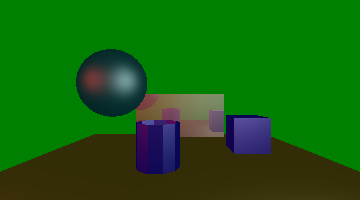
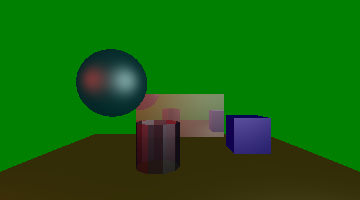
Added hi-res render.

Changed region(s): [[0.3667, 0.6, 0.5194, 0.87]]

diff --git a/tracer/tracer.py b/tracer/tracer.py
@@ -66,8 +66,8 @@ objects.append(readobj('plane.obj', 'plane', vec(128, 128, 0)))
 #  object.n: The normal for each triangle.
 
 # The resolution for this render
-image_width = 360
-image_height = 200
+image_width = 1440
+image_height = 900
 # The size of the image plane (in the 3D space)
 window_width = (image_width*1.0)/image_height
 window_height = 1
@@ -76,7 +76,7 @@ ambientlight = vec(0.3, 0.3, 0.3)
 Kd = 0.005
 Ks = 0.4
 p = 10
-trans = 0.7
+trans = 0.1
 # Directional light locations
 lights = [[vec(5, 5, -5), vec(256,256,256)], [vec(-10, 5, -5), vec(256, 32, 32)]]
 # The focal point of the camera in 3D space.
@@ -224,4 +224,4 @@ for i, x in enumerate(numpy.linspace(0, window_width, image_width)):
 		colour = trace(cam_focus, ray)
 		raw[i,j] = tuple(colour.astype(int))
 
-image.save("imgs/scene.png")
+image.save("imgs/big.png")
